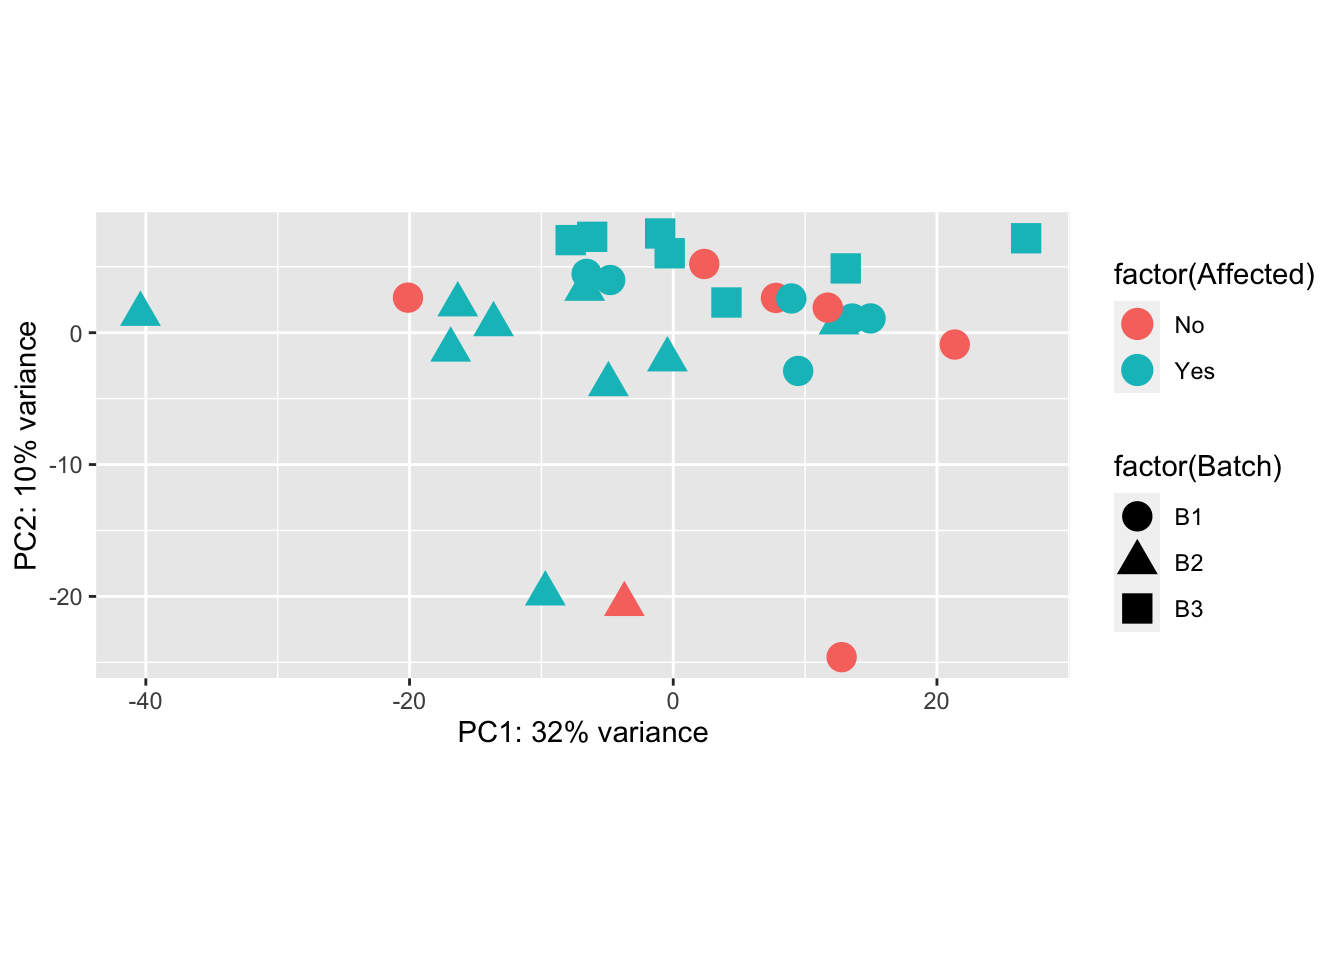
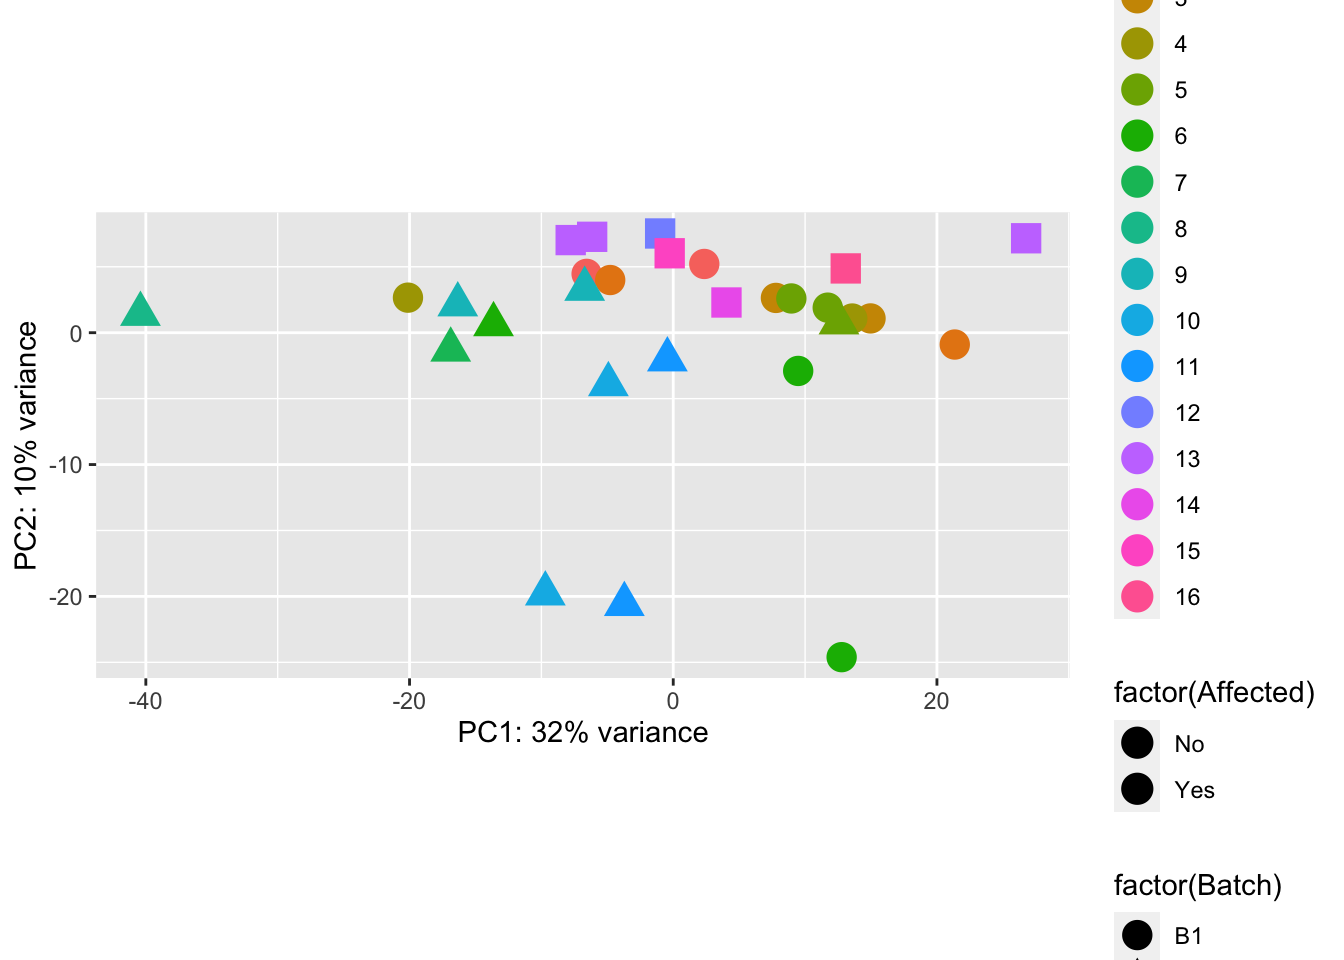
Build site.

diff --git a/docs/analysis.html b/docs/analysis.html
@@ -435,15 +435,15 @@ project makes it easier to run your code on other machines.</p>
 <div class="panel panel-default">
 <div class="panel-heading">
 <p class="panel-title">
-<a data-toggle="collapse" data-parent="#workflowr-checks" href="#strongRepositoryversionstrongahrefhttpsgithubcomuabcgdswortheymecfsdgeanalysistreedf39c694f4c82d2df0924b35abe610451265461ctargetblankdf39c69a">
+<a data-toggle="collapse" data-parent="#workflowr-checks" href="#strongRepositoryversionstrongahrefhttpsgithubcomuabcgdswortheymecfsdgeanalysistree13c1acc043d29c30392f20ae81dcc31643366350targetblank13c1acca">
 <span class="glyphicon glyphicon-ok text-success"
 aria-hidden="true"></span> <strong>Repository version:</strong>
-<a href="https://github.com/uab-cgds-worthey/mecfs-dge-analysis/tree/df39c694f4c82d2df0924b35abe610451265461c" target="_blank">df39c69</a>
+<a href="https://github.com/uab-cgds-worthey/mecfs-dge-analysis/tree/13c1acc043d29c30392f20ae81dcc31643366350" target="_blank">13c1acc</a>
 </a>
 </p>
 </div>
 <div
[2 lines of base64/hex data omitted]
 class="panel-collapse collapse">
 <div class="panel-body">
 <p>
@@ -453,7 +453,7 @@ reproducibility.
 </p>
 <p>
 The results in this page were generated with repository version
-<a href="https://github.com/uab-cgds-worthey/mecfs-dge-analysis/tree/df39c694f4c82d2df0924b35abe610451265461c" target="_blank">df39c69</a>.
+<a href="https://github.com/uab-cgds-worthey/mecfs-dge-analysis/tree/13c1acc043d29c30392f20ae81dcc31643366350" target="_blank">13c1acc</a>.
 See the <em>Past versions</em> tab to see a history of the changes made
 to the R Markdown and HTML files.
 </p>
@@ -532,6 +532,40 @@ Message
 </tr>
 </thead>
 <tbody>
+<tr>
+<td>
+Rmd
+</td>
+<td>
+<a href="https://github.com/uab-cgds-worthey/mecfs-dge-analysis/blob/13c1acc043d29c30392f20ae81dcc31643366350/analysis/analysis.Rmd" target="_blank">13c1acc</a>
+</td>
+<td>
+sdhutchins
+</td>
+<td>
+2023-06-23
+</td>
+<td>
+wflow_publish("analysis/")
+</td>
+</tr>
+<tr>
+<td>
+html
+</td>
+<td>
+<a href="https://rawcdn.githack.com/uab-cgds-worthey/mecfs-dge-analysis/6133d80bd1e4bcfaa02fe0a71a89feec0506e7a2/docs/analysis.html" target="_blank">6133d80</a>
+</td>
+<td>
+sdhutchins
+</td>
+<td>
+2023-06-23
+</td>
+<td>
+Build site.
+</td>
+</tr>
 <tr>
 <td>
 Rmd
@@ -879,15 +913,92 @@ colors = colorRampPalette(rev(brewer.pal(9, &quot;Blues&quot;)))(255)
 
 pheatmap(sampleDistMatrix, clustering_distance_rows=sampleDists, clustering_distance_cols=sampleDists, col=colors)</code></pre>
 <p><img src="figure/analysis.Rmd/unnamed-chunk-2-1.png" width="672" style="display: block; margin: auto;" /></p>
+<p>
+<button type="button" class="btn btn-default btn-xs btn-workflowr btn-workflowr-fig" data-toggle="collapse" data-target="#fig-unnamed-chunk-2-1">
+Past versions of unnamed-chunk-2-1.png
+</button>
+</p>
+<div id="fig-unnamed-chunk-2-1" class="collapse">
+<div class="table-responsive">
+<table class="table table-condensed table-hover">
+<thead>
+<tr>
+<th>
+Version
+</th>
+<th>
+Author
+</th>
+<th>
+Date
+</th>
+</tr>
+</thead>
+<tbody>
+<tr>
+<td>
+<a href="https://github.com/uab-cgds-worthey/mecfs-dge-analysis/blob/6133d80bd1e4bcfaa02fe0a71a89feec0506e7a2/docs/figure/analysis.Rmd/unnamed-chunk-2-1.png" target="_blank">6133d80</a>
+</td>
+<td>
+sdhutchins
+</td>
+<td>
+2023-06-23
+</td>
+</tr>
+</tbody>
+</table>
+</div>
+</div>
 </div>
 <div id="principal-components-analysis" class="section level4">
 <h4>Principal Components Analysis</h4>
 <pre class="r"><code>pcaData = plotPCA(vsd, intgroup=c(&quot;Batch&quot;, &quot;Family&quot;, &quot;Affected&quot;), returnData=TRUE) 
 percentVar = round(100 * attr(pcaData, &quot;percentVar&quot;)) 
 
-ggplot(pcaData, aes(PC1, PC2, shape=factor(Batch), color=factor(Affected)))  + 
+ggplot(pcaData, aes(PC1, PC2, shape=factor(Batch), fill=factor(Affected),  color=factor(Family)))  + 
   geom_point(size=5) + xlab(paste0(&quot;PC1: &quot;,percentVar[1],&quot;% variance&quot;)) + ylab(paste0(&quot;PC2: &quot;,percentVar[2],&quot;% variance&quot;)) + coord_fixed()</code></pre>
 <p><img src="figure/analysis.Rmd/unnamed-chunk-3-1.png" width="672" style="display: block; margin: auto;" /></p>
+<p>
+<button type="button" class="btn btn-default btn-xs btn-workflowr btn-workflowr-fig" data-toggle="collapse" data-target="#fig-unnamed-chunk-3-1">
+Past versions of unnamed-chunk-3-1.png
+</button>
+</p>
+<div id="fig-unnamed-chunk-3-1" class="collapse">
+<div class="table-responsive">
+<table class="table table-condensed table-hover">
+<thead>
+<tr>
+<th>
+Version
+</th>
+<th>
+Author
+</th>
+<th>
+Date
+</th>
+</tr>
+</thead>
+<tbody>
+<tr>
+<td>
+<a href="https://github.com/uab-cgds-worthey/mecfs-dge-analysis/blob/6133d80bd1e4bcfaa02fe0a71a89feec0506e7a2/docs/figure/analysis.Rmd/unnamed-chunk-3-1.png" target="_blank">6133d80</a>
+</td>
+<td>
+sdhutchins
+</td>
+<td>
+2023-06-23
+</td>
+</tr>
+</tbody>
+</table>
+</div>
+</div>
+<pre class="r"><code>ggplot(pcaData, aes(PC1, PC2, shape=factor(Batch), color=factor(Affected)))  + 
+  geom_point(size=5) + xlab(paste0(&quot;PC1: &quot;,percentVar[1],&quot;% variance&quot;)) + ylab(paste0(&quot;PC2: &quot;,percentVar[2],&quot;% variance&quot;)) + coord_fixed()</code></pre>
+<p><img src="figure/analysis.Rmd/unnamed-chunk-3-2.png" width="672" style="display: block; margin: auto;" /></p>
 </div>
 <div id="heatmap-of-top-50-top-100-genes" class="section level4">
 <h4>Heatmap of top 50 &amp; top 100 genes</h4>
@@ -899,6 +1010,43 @@ mat = mat - rowMeans(mat)
 df = as.data.frame(colData(vsd)[,c(&quot;Batch&quot;, &quot;Affected&quot;)])
 pheatmap(mat, annotation_col=df)</code></pre>
 <p><img src="figure/analysis.Rmd/unnamed-chunk-4-1.png" width="672" style="display: block; margin: auto;" /></p>
+<p>
+<button type="button" class="btn btn-default btn-xs btn-workflowr btn-workflowr-fig" data-toggle="collapse" data-target="#fig-unnamed-chunk-4-1">
+Past versions of unnamed-chunk-4-1.png
+</button>
+</p>
+<div id="fig-unnamed-chunk-4-1" class="collapse">
+<div class="table-responsive">
+<table class="table table-condensed table-hover">
+<thead>
+<tr>
+<th>
+Version
+</th>
+<th>
+Author
+</th>
+<th>
+Date
+</th>
+</tr>
+</thead>
+<tbody>
+<tr>
+<td>
+<a href="https://github.com/uab-cgds-worthey/mecfs-dge-analysis/blob/6133d80bd1e4bcfaa02fe0a71a89feec0506e7a2/docs/figure/analysis.Rmd/unnamed-chunk-4-1.png" target="_blank">6133d80</a>
+</td>
+<td>
+sdhutchins
+</td>
+<td>
+2023-06-23
+</td>
+</tr>
+</tbody>
+</table>
+</div>
+</div>
 <pre class="r"><code>library(genefilter)
 topVarGenes = head(order(-rowVars(assay(vsd_limma))),100)
 mat = assay(vsd_limma)[ topVarGenes, ]
@@ -906,6 +1054,43 @@ mat = mat - rowMeans(mat)
 df = as.data.frame(colData(vsd_limma)[,c(&quot;Batch&quot;, &quot;Family&quot;, &quot;Affected&quot;)])
 pheatmap(mat, annotation_col=df)</code></pre>
 <p><img src="figure/analysis.Rmd/unnamed-chunk-5-1.png" width="672" style="display: block; margin: auto;" /></p>
+<p>
+<button type="button" class="btn btn-default btn-xs btn-workflowr btn-workflowr-fig" data-toggle="collapse" data-target="#fig-unnamed-chunk-5-1">
+Past versions of unnamed-chunk-5-1.png
+</button>
+</p>
+<div id="fig-unnamed-chunk-5-1" class="collapse">
+<div class="table-responsive">
+<table class="table table-condensed table-hover">
+<thead>
+<tr>
+<th>
+Version
+</th>
+<th>
+Author
+</th>
+<th>
+Date
+</th>
+</tr>
+</thead>
+<tbody>
+<tr>
+<td>
+<a href="https://github.com/uab-cgds-worthey/mecfs-dge-analysis/blob/6133d80bd1e4bcfaa02fe0a71a89feec0506e7a2/docs/figure/analysis.Rmd/unnamed-chunk-5-1.png" target="_blank">6133d80</a>
+</td>
+<td>
+sdhutchins
+</td>
+<td>
+2023-06-23
+</td>
+</tr>
+</tbody>
+</table>
+</div>
+</div>
 </div>
 <div id="comparisoncontrast-of-affected_yes_vs_no"
 class="section level4">
@@ -968,11 +1153,8 @@ topgenes_aff_vs_unaff_05</code></pre>
 <pre class="r"><code>topgenes_aff_vs_unaff_05 = assay(vsd_limma)[topgenes_aff_vs_unaff_05,] 
 topgenes_aff_vs_unaff_05 = topgenes_aff_vs_unaff_05 - rowMeans(topgenes_aff_vs_unaff_05)
 df = as.data.frame(colData(vsd_limma)[,c(&quot;Batch&quot;, &quot;Family&quot;, &quot;Affected&quot;)])
-png(&quot;output/heatmap_res_aff_vs_unaff_05_top-50.png&quot;, width = 1024, height = 768)
-pheatmap(topgenes_aff_vs_unaff_05, annotation_col=df)
-dev.off()</code></pre>
-<pre><code>quartz_off_screen 
-                3 </code></pre>
+pheatmap(topgenes_aff_vs_unaff_05, annotation_col=df)</code></pre>
+<p><img src="figure/analysis.Rmd/padj%3C0.05%20&%20heatmap%20of%20top%2050%20genes-1.png" width="672" style="display: block; margin: auto;" /></p>
 <pre class="r"><code>res_aff_vs_unaff_df_genename = res_aff_vs_unaff_df
 res_aff_vs_unaff_df_genename$Ensembl_ID = row.names(res_aff_vs_unaff_df)
 res_aff_vs_unaff_df_genename = merge(x=res_aff_vs_unaff_df_genename, y=gene_names, by.x =&quot;Ensembl_ID&quot;, by.y=&quot;Ensembl_ID&quot;, all.x=T)
